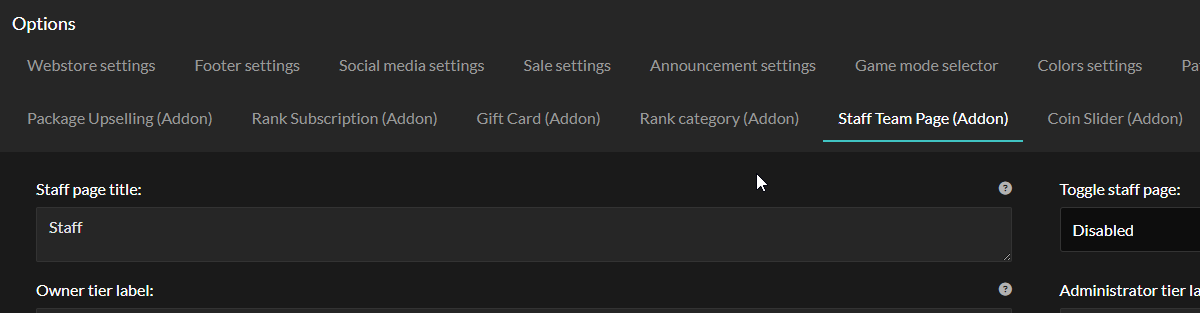
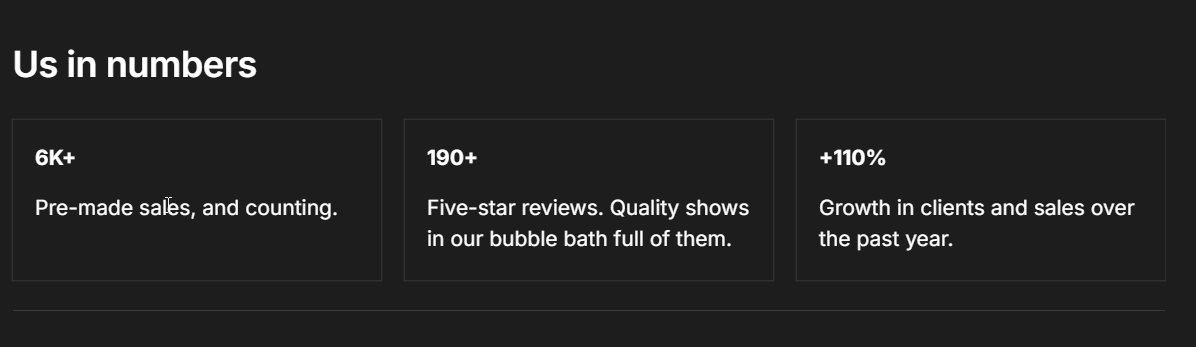
GITBOOK-90: change request with no subject merged in GitBook

diff --git a/vosiekip-studio-docs/about-us.md b/vosiekip-studio-docs/about-us.md
@@ -20,7 +20,7 @@ We believe anyone can build the server they dream of, as long as they dare to st
 {% column %}
 ## 6K+
 
-Pre-made sales, and counting.
+Pre-made sales, and it keeps on counting.
 {% endcolumn %}
 
 {% column %}
@@ -38,14 +38,11 @@ Growth in clients and sales over the past year.
 
 ***
 
-### What we make
-
-From store themes to in-game content, everything you need for your server. Click a card to open its guide or store page.
-
-<table data-view="cards"><thead><tr><th></th><th></th><th data-hidden data-card-cover data-type="image">Cover image</th><th data-hidden data-card-target data-type="content-ref"></th></tr></thead><tbody><tr><td><strong>Tebex themes</strong></td><td>Ready-made themes for your Tebex store.</td><td><a href=".gitbook/assets/Tebex1.jpg">Tebex1.jpg</a></td><td><a href="tebex-theme-guides/installation-guide.md">installation-guide.md</a></td></tr><tr><td><strong>Tebex websites</strong></td><td>A full website on your own domain, connected to Tebex.</td><td><a href=".gitbook/assets/Tebex.jpg">Tebex.jpg</a></td><td><a href="tebex-website-guides/installation-guide.md">installation-guide.md</a></td></tr><tr><td><strong>PayNow themes</strong></td><td>Ready-made themes for your PayNow store.</td><td><a href=".gitbook/assets/Legend-banner- paynow.jpg">Legend-banner- paynow.jpg</a></td><td><a href="paynow-guides/installation-guide.md">installation-guide.md</a></td></tr><tr><td><strong>Minecraft models</strong></td><td>Custom models for ItemsAdder, Nexo and Oraxen.</td><td><a href=".gitbook/assets/Minecraft-models-banner.jpg">Minecraft-models-banner.jpg</a></td><td><a href="model-guides/installation-guide.md">installation-guide.md</a></td></tr><tr><td><strong>Minecraft builds</strong></td><td>Spawns, skyblock islands and dungeons.</td><td><a href=".gitbook/assets/Minecraft-build-banner.jpg">Minecraft-build-banner.jpg</a></td><td><a href="build-guides/installation-guide.md">installation-guide.md</a></td></tr><tr><td><strong>Plugin configs</strong></td><td>Ready-made configs for shops, quests, jobs, skills and more.</td><td><a href=".gitbook/assets/faq-how-to-add-quests-to-your-server.jpg">faq-how-to-add-quests-to-your-server.jpg</a></td><td><a href="faq/how-to-add-quests-to-your-server.md">how-to-add-quests-to-your-server.md</a></td></tr><tr><td><strong>Store graphics</strong></td><td>Rank banners, currency packs and icons for your store.</td><td><a href=".gitbook/assets/about-store-graphics.jpg">about-store-graphics.jpg</a></td><td><a href="faq/how-to-make-rank-images-for-your-store.md">how-to-make-rank-images-for-your-store.md</a></td></tr></tbody></table>
-
-***
-
 ### Get in touch
 
-Browse all our products on our [BuiltByBit store](https://builtbybit.com/store/vosiekip-studio.25/). Questions, or need help with a setup? [Join our Discord](https://discord.gg/PxwaKxKhb6), we're happy to help.
+Browse all our products on our [BuiltByBit store](https://builtbybit.com/store/vosiekip-studio.25/). Questions, or need help with a setup? [Join our Discord](https://discord.gg/PxwaKxKhb6), we're happy to help. <br>
+
+{% content-ref url="https://app.gitbook.com/s/30otsg32LKuGQgdcam1f/faq" %}
+[FAQ](https://app.gitbook.com/s/30otsg32LKuGQgdcam1f/faq)
+{% endcontent-ref %}
+
